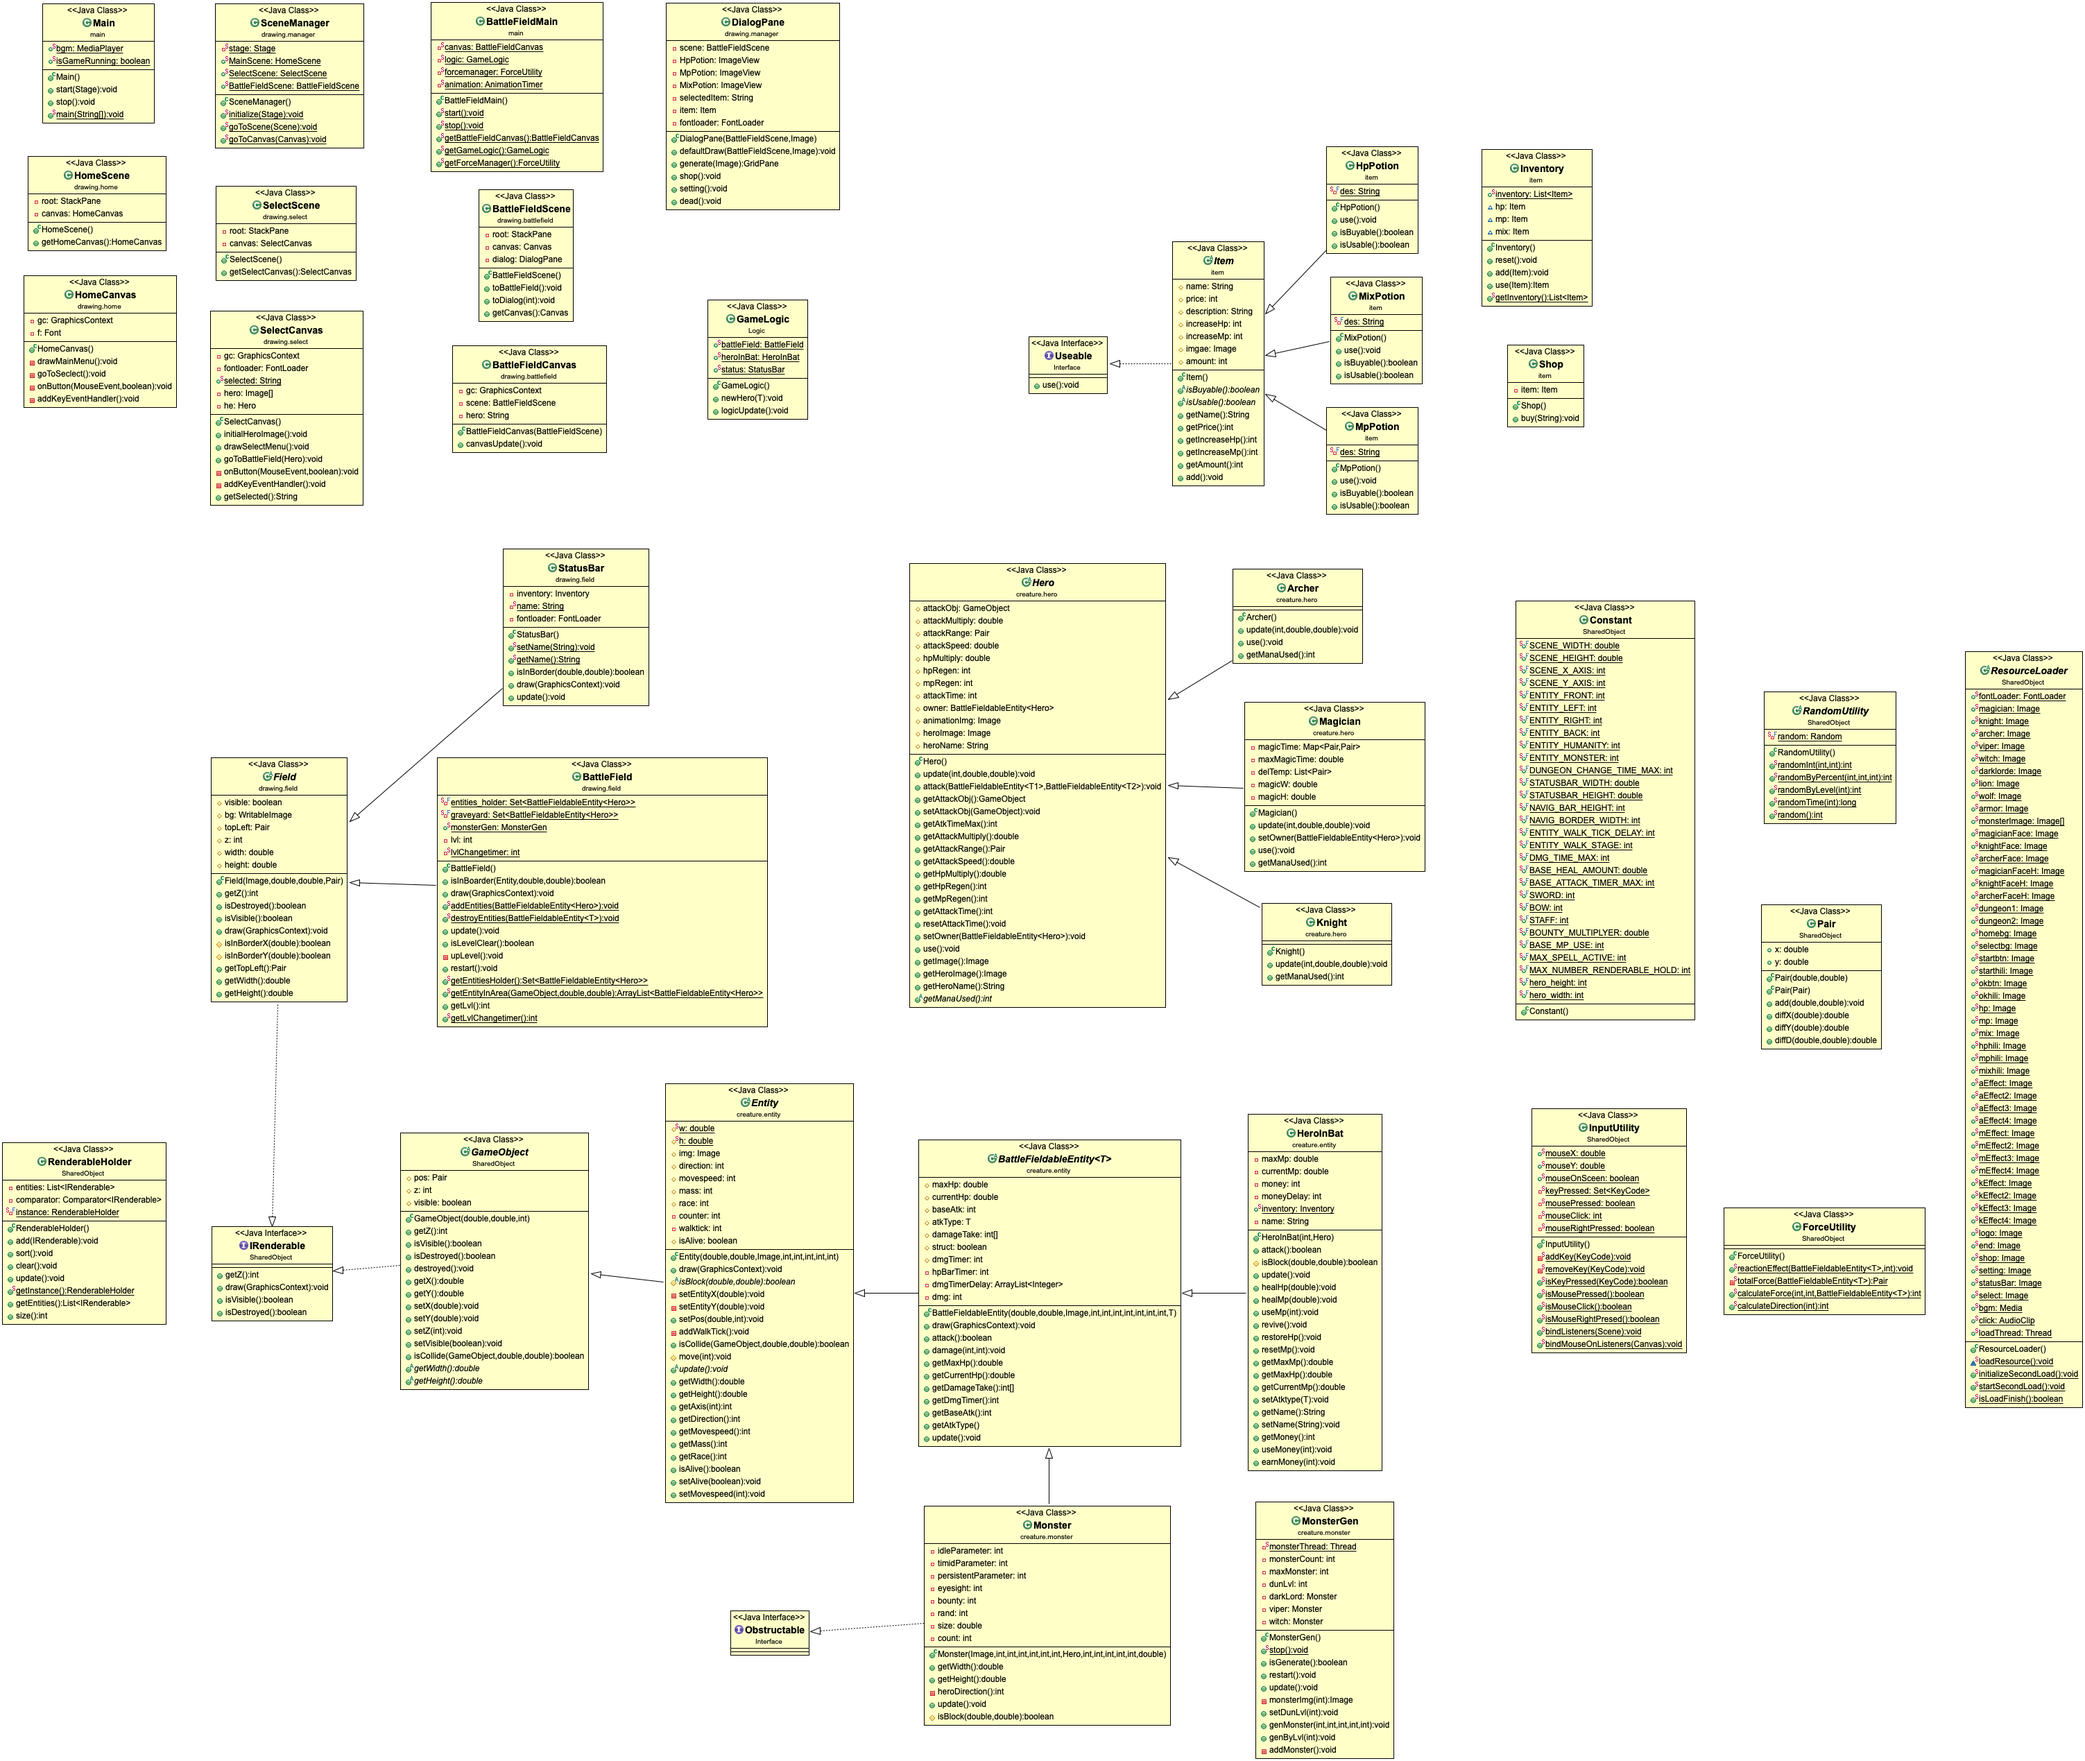
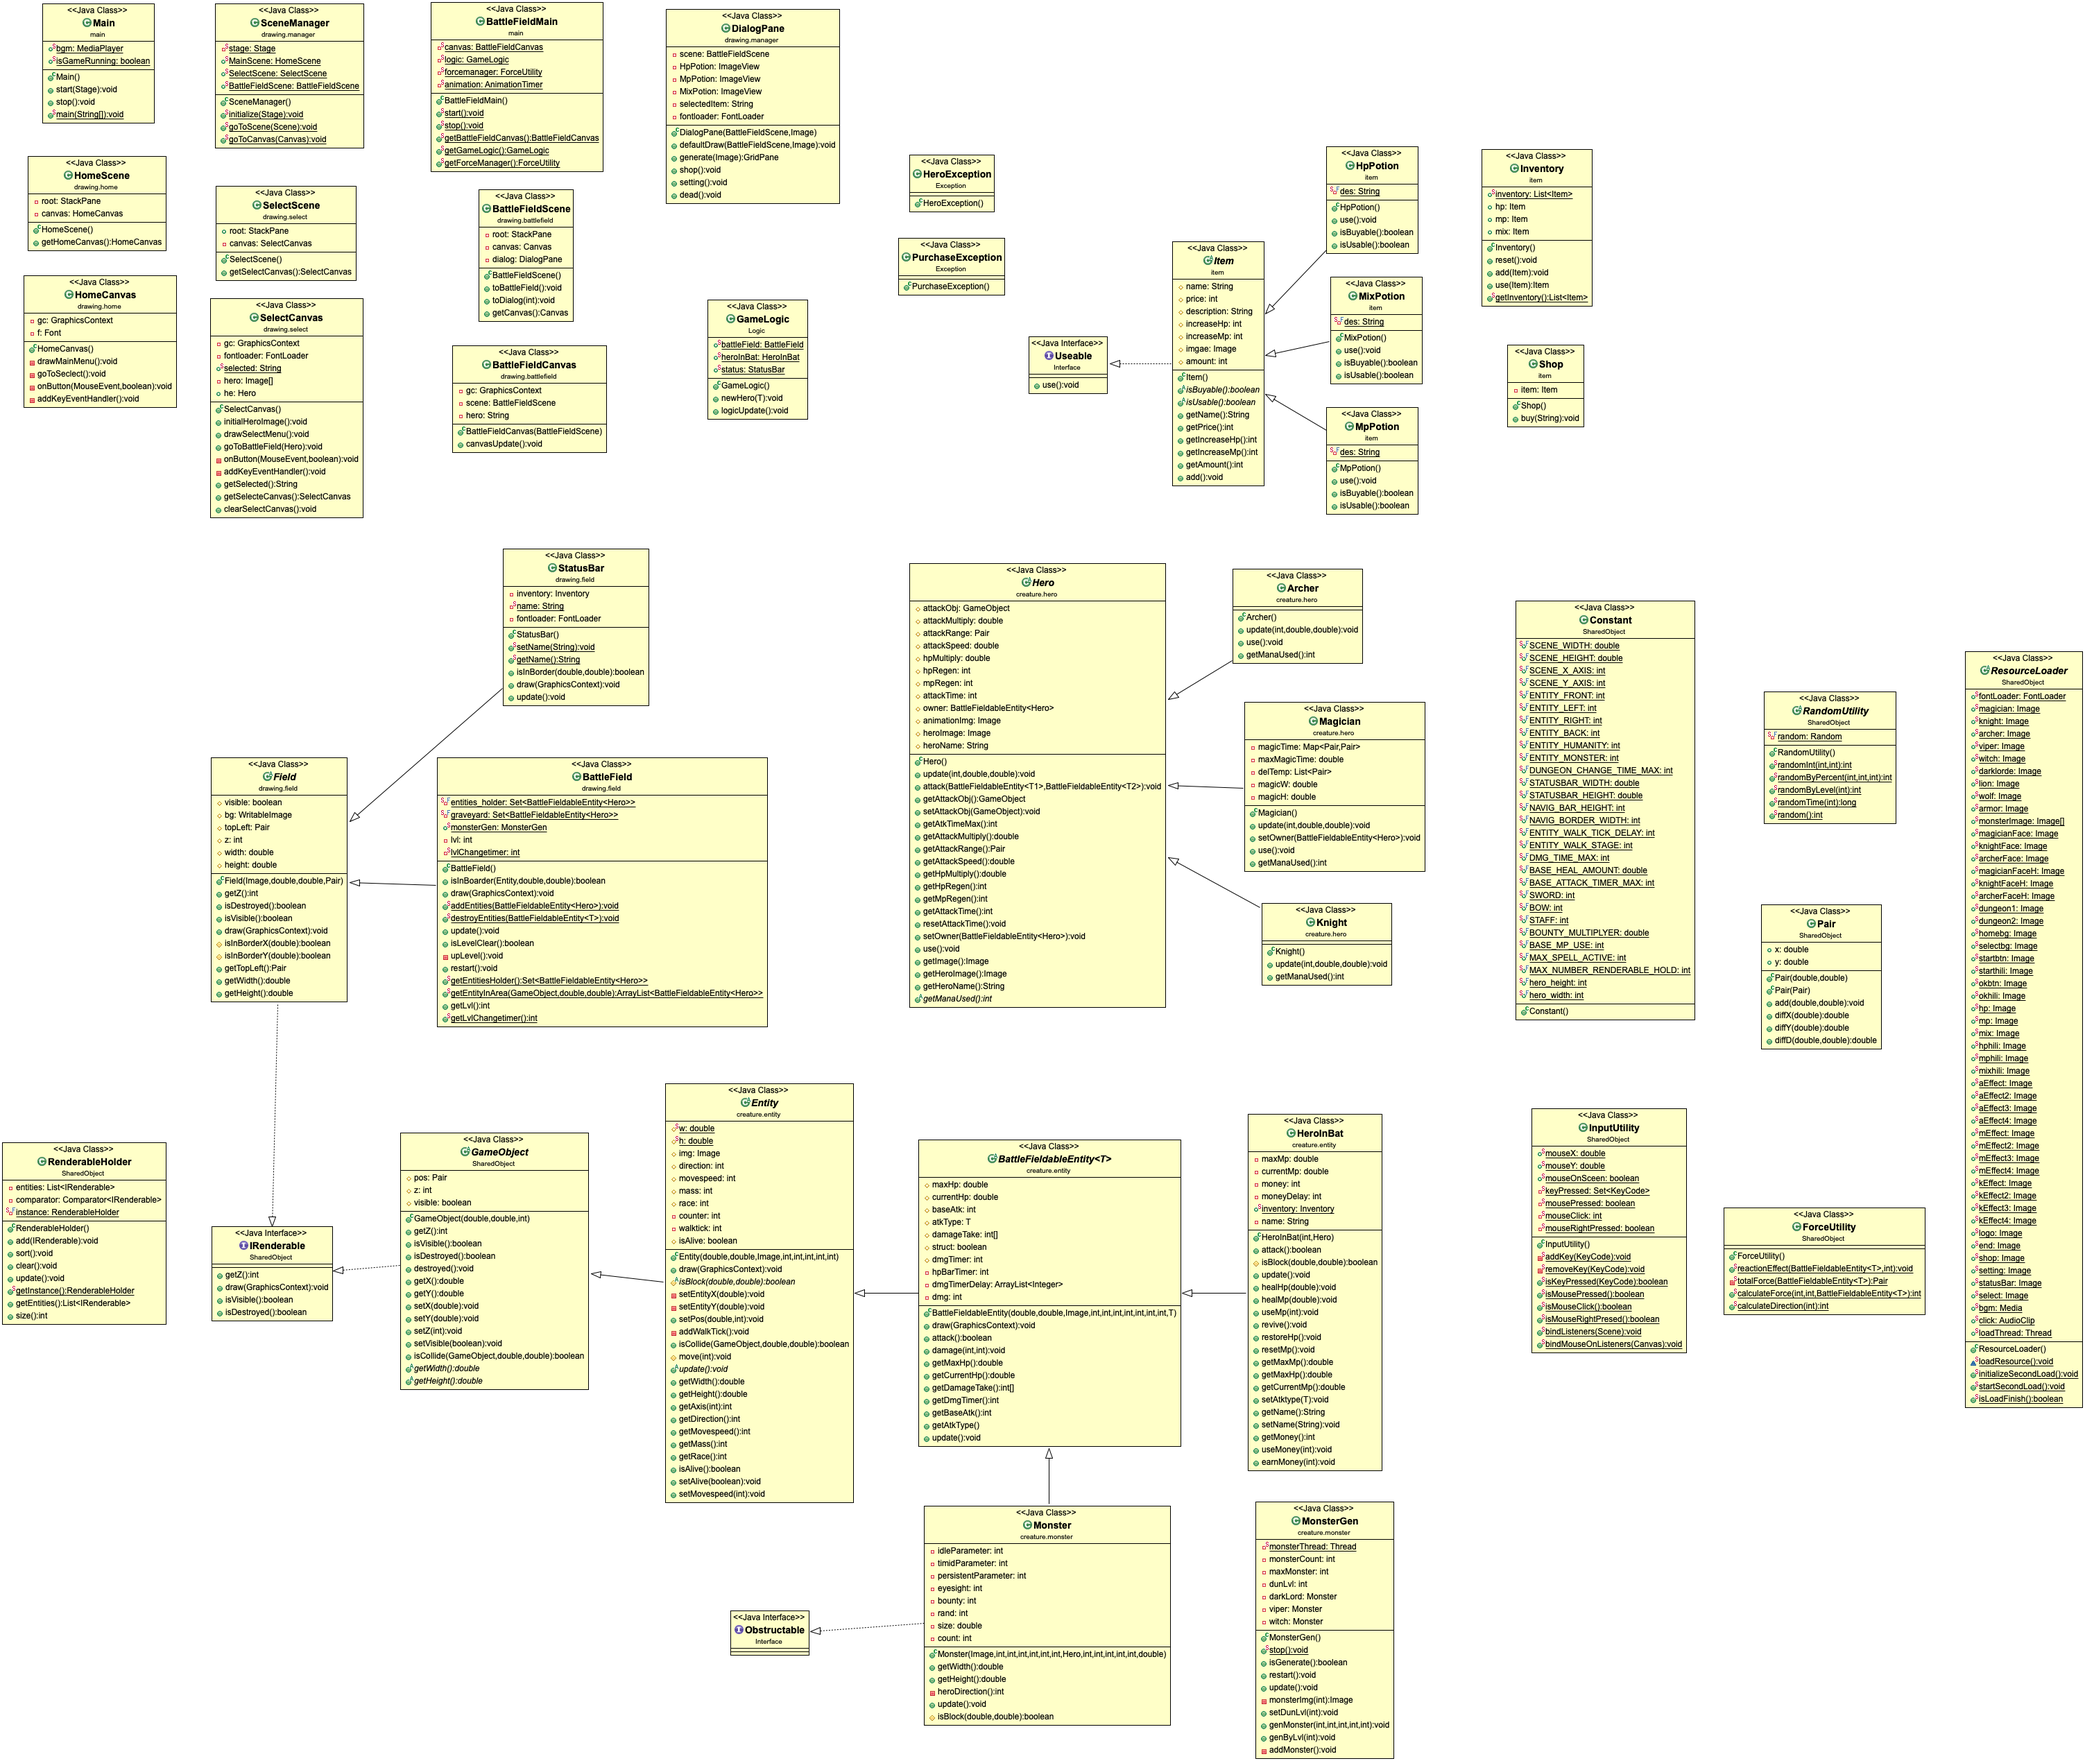
UML

Changed region(s): [[0.0928, 0.1556, 0.1856, 0.3111], [0.3094, 0.0, 0.4022, 0.1245], [0.4331, 0.0622, 0.495, 0.1867]]

diff --git a/src/drawing/manager/DialogPane.java b/src/drawing/manager/DialogPane.java
@@ -1,10 +1,14 @@
 package drawing.manager;
 
 import com.sun.javafx.tk.FontLoader;
+
+import Exception.PurchaseException;
+import Logic.GameLogic;
 import SharedObject.ResourceLoader;
 import drawing.battlefield.BattleFieldScene;
 import drawing.field.StatusBar;
-import exception.PurchaseException;
+import drawing.select.SelectCanvas;
+import drawing.select.SelectScene;
 import item.Item;
 import item.Shop;
 import javafx.geometry.Insets;
@@ -38,7 +42,6 @@ public class DialogPane extends VBox {
 	private ImageView MpPotion;
 	private ImageView MixPotion;
 	private String selectedItem = "";
-	private Item item = null;
 	private FontLoader fontloader = ResourceLoader.fontLoader;
 
 	public DialogPane(BattleFieldScene battleScene, Image image) {
@@ -171,6 +174,18 @@ public class DialogPane extends VBox {
 
 	public void dead() {
 		// TODO Auto-generated method stub
+		BattleFieldMain.getBattleFieldCanvas().canvasUpdate();
 		defaultDraw(scene, ResourceLoader.end);
+		Button close = new Button("Restart");
+		close.setStyle("-fx-color: red;-fx-border: none ");
+		close.setOnMouseClicked((MouseEvent e) -> {
+			ResourceLoader.click.play(100);
+			this.getChildren().clear();
+			GameLogic.battleField.restart();
+			//GameLogic.heroInBat.destroyed();
+			SceneManager.SelectScene = new SelectScene();
+			SceneManager.goToScene(SceneManager.MainScene);
+		});
+		this.getChildren().add(close);
 	}
 }

diff --git a/src/drawing/select/SelectCanvas.java b/src/drawing/select/SelectCanvas.java
@@ -2,6 +2,7 @@ package drawing.select;
 
 import com.sun.javafx.tk.FontLoader;
 
+import Exception.HeroException;
 import Logic.GameLogic;
 import SharedObject.Constant;
 import SharedObject.ResourceLoader;
@@ -11,7 +12,6 @@ import creature.hero.Knight;
 import creature.hero.Magician;
 import drawing.battlefield.BattleFieldScene;
 import drawing.manager.SceneManager;
-import exception.HeroException;
 import javafx.event.EventHandler;
 import javafx.scene.canvas.Canvas;
 import javafx.scene.canvas.GraphicsContext;
@@ -31,7 +31,7 @@ public class SelectCanvas extends Canvas {
 	private FontLoader fontloader = ResourceLoader.fontLoader;
 	public static String selected = "";
 	private Image[] hero = new Image[3];
-	private Hero he;
+	public Hero he;
 
 	public SelectCanvas() {
 		super(1000, 700);
@@ -223,5 +223,14 @@ public class SelectCanvas extends Canvas {
 
 	public String getSelected() {
 		return selected;
+	}
+	
+	public SelectCanvas getSelecteCanvas(){
+		return this;
+	}
+	
+	public void clearSelectCanvas() {
+		this.he = null;
+		this.selected = "";
 	}
 }

diff --git a/src/drawing/select/SelectScene.java b/src/drawing/select/SelectScene.java
@@ -4,7 +4,7 @@ import javafx.scene.Scene;
 import javafx.scene.layout.StackPane;
 
 public class SelectScene extends Scene {
-	private StackPane root;
+	public StackPane root;
 	private SelectCanvas canvas;
 
 	public SelectScene() {
@@ -13,7 +13,7 @@ public class SelectScene extends Scene {
 		canvas = new SelectCanvas();
 		root.getChildren().add(canvas);
 		canvas.requestFocus();
-
+		
 	}
 
 	public SelectCanvas getSelectCanvas() {

diff --git a/src/item/Inventory.java b/src/item/Inventory.java
@@ -5,9 +5,9 @@ import java.util.List;
 
 public class Inventory {
 	public static List<Item> inventory = new ArrayList<>();
-	Item hp = new HpPotion();
-	Item mp = new MpPotion();
-	Item mix = new MixPotion();
+	public Item hp = new HpPotion();
+	public Item mp = new MpPotion();
+	public Item mix = new MixPotion();
 
 	public Inventory() {
 		reset();

diff --git a/src/item/Shop.java b/src/item/Shop.java
@@ -1,9 +1,9 @@
 package item;
 
+import Exception.PurchaseException;
 import Logic.GameLogic;
 import creature.entity.HeroInBat;
 import creature.hero.Hero;
-import exception.PurchaseException;
 import javafx.scene.control.Alert;
 import javafx.scene.control.Alert.AlertType;
 

diff --git a/src/Exception/PurchaseException.java b/src/Exception/PurchaseException.java
@@ -1,8 +1,8 @@
-package exception;
+package Exception;
 
 public class PurchaseException extends Exception {
 	public PurchaseException() {
-		System.out.println("PurchaseException");
+		System.out.println("PurchaseException : Check Item or Money");
 	}
 
 }

diff --git a/src/Exception/HeroException.java b/src/Exception/HeroException.java
@@ -1,4 +1,4 @@
-package exception;
+package Exception;
 
 import javafx.scene.control.Alert;
 import javafx.scene.control.Alert.AlertType;
